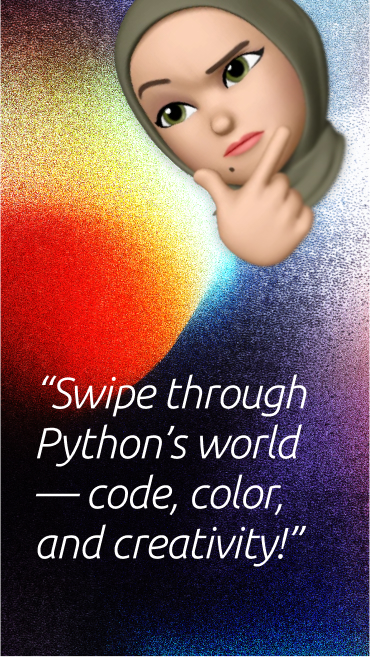
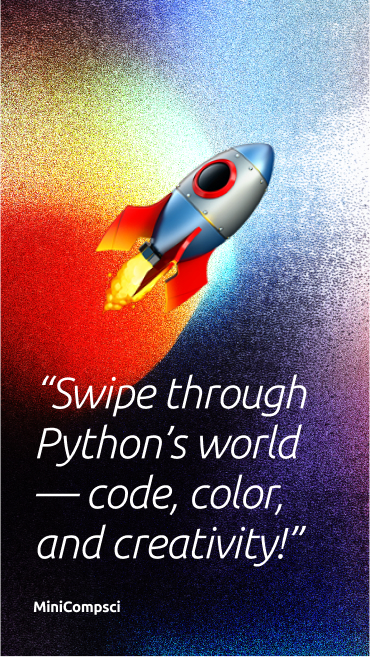
style: change card image

Changed region(s): [[0.2676, 0.0, 0.9514, 0.4871], [0.0892, 0.9132, 0.327, 0.9437]]

diff --git a/public/index.html b/public/index.html
@@ -52,7 +52,7 @@
   </section>
   <section class="pt-40 pb-5 px-6 relative">
     <!-- 3D Carousel -->
-    <div class="containers">
+    <div class="containers relative">
       <div class="gallery">
         <img src="assets/OHL - All.jpg" alt="">
         <img src="assets/OHL - All-2.jpg" alt="">
@@ -138,6 +138,7 @@
           img.classList.add('blur')
         })
         clickedElement.classList.remove('blur')
+        clickedElement.classList.add('rotateClick')
       }
     })
   </script>

diff --git a/public/css/3DCarousel.css b/public/css/3DCarousel.css
@@ -21,7 +21,7 @@
 }
 
 .blur {
-    filter: blur(5px);
+    filter: blur(10px);
     transition: filter 1s ease;
 }
 
@@ -29,14 +29,14 @@
     position: absolute;
     width: 100%;
     cursor: pointer;
-    border-radius: 2rem;
+    border-radius: 1rem;
 
     -webkit-box-reflect: below .2rem linear-gradient(transparent, transparent, transparent, transparent, #0005);
 }
 
 img:hover {
     filter: blur(0px) ;
-    
+    transform: rotateX(45deg) scale(2);
 }
 
 @keyframes circular-rotate {

diff --git a/public/css/output.css b/public/css/output.css
@@ -632,6 +632,22 @@ video {
   top: 0.75rem;
 }
 
+.left-1\/2 {
+  left: 50%;
+}
+
+.-top-72 {
+  top: -18rem;
+}
+
+.top-72 {
+  top: 18rem;
+}
+
+.top-96 {
+  top: 24rem;
+}
+
 .z-50 {
   z-index: 50;
 }
@@ -646,6 +662,10 @@ video {
 
 .col-span-2 {
   grid-column: span 2 / span 2;
+}
+
+.m-auto {
+  margin: auto;
 }
 
 .mx-auto {
